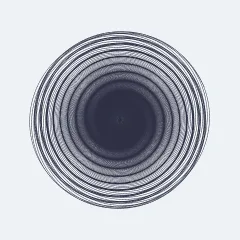
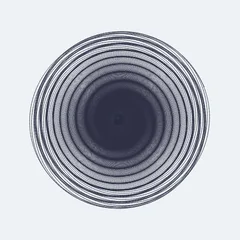
feat: sluttpøl — resten av malingen renner ut i en pytt der bøtta blir hengende
Når svingningen dør ut med maling igjen, blir bøtta i virkeligheten hengende
stille over ett punkt og tømmer resten rett ned. Nå dannes en deterministisk
sluttpøl per hull: calcEndPoolRadius (r ∝ √gjenværende volum, tynn maling
sprer seg bredere, tak 0.028) + drawEndPool (ugjennomsiktig lobet pytt,
coffee-ring-kant, våt glans) og ETT lagret isPool-punkt per hull, slik at
WYSIWYG-eksporten replayer pølen gratis. Ingen nye rng-kall i kjøreløkka —
alle tidligere punkter er urørt. Tom bøtte, MAX_POINTS eller manuell stopp
("løfte bøtta vekk") gir ingen pøl.

Rigg-overlegget (kun display) viser nå også strålen tynnere når flowen dør,
og stiplet når den sputrer (Plateau–Rayleigh).

QA: tsc + build grønne. Headless montasje (8 presets + Default) fortsatt
runde og lerretsfyllende; Kaotisk/Galakse/Regnbue (tom bøtte) byte-identiske
med HEAD; determinisme PASS (samme frø → identisk PNG, ulikt frø → ulik);
5 preset-miniatyrer regenerert (rosett/organisk/geometrisk/zen/blomst);
live-kjøring i preview fullført uten konsollfeil.

diff --git a/src/components/PaintCanvas.tsx b/src/components/PaintCanvas.tsx
@@ -7,8 +7,9 @@ import {
   calcPaintFlowRate, calcDropRadius, calcDropOpacity, calcBobHeight,
   calcCentripetalAccel, shouldSplash, calcPaintLevel, calcCanvasOffset,
   calcStreamBreakup, calcRopeCoiling, calcStreamAdvection,
+  calcEndPoolRadius, END_POOL_MIN_RADIUS,
 } from '@/lib/physics';
-import { drawThickStroke, drawSplashSplat, drawPaperTexture, getSymmetryTransforms, copySeed, mulberry32, Rng, SPLASH_GRAVITY, splashDrag } from '@/lib/painter';
+import { drawThickStroke, drawSplashSplat, drawEndPool, drawPaperTexture, getSymmetryTransforms, copySeed, mulberry32, Rng, SPLASH_GRAVITY, splashDrag } from '@/lib/painter';
 
 const PAINT_SIZE = 3072;
 const STEPS_PER_FRAME = 14;
@@ -327,8 +328,49 @@ export default function PaintCanvas({
         particles.current = [];
         paintCtx.globalCompositeOperation = 'source-over';
       };
-      const finishRun = () => {
+      // Terminal drain pool: when the swing has died away with paint left, the
+      // bucket hangs still and drains the rest straight down into a puddle at
+      // the rest point (per hole). rng-FREE in the run loop — only the plain
+      // nextSeed() counter after the last stroke — so every earlier point is
+      // untouched; ONE stored isPool-point per hole replays it in the export.
+      // Called ONLY when the run ends by settling: an empty bucket has nothing
+      // left to drain, and stopping by hand = lifting the bucket away.
+      const depositEndPool = (t: number) => {
+        const paintLevel = calcPaintLevel(totalFlow.current, ps.holes.length, ps.bucketCapacity);
+        const poolR = calcEndPoolRadius(paintLevel, ps.bucketCapacity, ps.holes.length, ps.viscosity);
+        if (poolR < END_POOL_MIN_RADIUS) return;
+        const pos = calcPosition(t, prepared);
+        const co = calcCanvasOffset(t, s.canvasMotion);
+        const cx = 0.5 + pos.x * SCALE + co.ox;
+        const cy = 0.5 + pos.y * SCALE + co.oy;
+        paintCtx.globalCompositeOperation = wet ? 'multiply' : 'source-over';
+        for (let h = 0; h < ps.holes.length; h++) {
+          const hole = ps.holes[h];
+          const nx = cx + hole.offsetX;
+          const ny = cy + hole.offsetY;
+          const seed = nextSeed();
+          const copies = getSymmetryTransforms(nx * PAINT_SIZE, ny * PAINT_SIZE, PAINT_SIZE, sym);
+          for (let i = 0; i < copies.length; i++) {
+            drawEndPool(paintCtx, copies[i].x, copies[i].y, poolR * PAINT_SIZE, hole.color, ps.opacity, ps.viscosity, copySeed(seed, i), shadowOn);
+          }
+          pointsRef.current.push({
+            x: nx, y: ny,
+            radius: poolR, color: hole.color, opacity: ps.opacity,
+            viscosity: ps.viscosity,
+            seed,
+            isPool: true,
+            blend: wet || undefined,
+            shadow: shadowOn || undefined,
+            sym,
+          });
+        }
+        paintCtx.globalCompositeOperation = 'source-over';
+      };
+      // The pool drains AFTER the last airborne droplets have landed, so it is
+      // deposited (and stored) last — live draw order matches the export replay.
+      const finishRun = (endPoolT?: number) => {
         landRemainingParticles();
+        if (endPoolT !== undefined) depositEndPool(endPoolT);
         cbRef.current('done');
       };
 
@@ -339,7 +381,7 @@ export default function PaintCanvas({
 
       for (let step = 0; step < STEPS_PER_FRAME; step++) {
         const t = tRef.current;
-        if (isSimulationDone(t, prepared)) { finishRun(); return; }
+        if (isSimulationDone(t, prepared)) { finishRun(t); return; }
 
         const pos = calcPosition(t, prepared);
         const vel = calcVelocity(t, prepared);
@@ -571,7 +613,14 @@ export default function PaintCanvas({
               const adv = calcStreamAdvection(vel.vx, vel.vy, h, sRef.current.pendulum.stringLength, flow);
               const lx = (0.5 + (pos.x + adv.dx) * SCALE + co.ox) * display.width;
               const ly = (0.5 + (pos.y + adv.dy) * SCALE + co.oy) * display.height;
-              const streamW = Math.max(bobR * 0.18, 1.5);
+              // Stream thins as the Torricelli flow dies with the paint level,
+              // and breaks into dashes when the starving jet sputters into
+              // drops (Plateau–Rayleigh) — the overlay mirrors what the paint
+              // on the canvas is doing. Display-only.
+              const normFlow = Math.min(flow / 5, 1);
+              const starve = calcStreamBreakup(normFlow, ps.viscosity);
+              const streamW = Math.max(bobR * 0.22 * (0.35 + normFlow * 0.65), 1.2);
+              if (starve > 0) ctx.setLineDash([streamW * 2.2, streamW * (1.2 + starve * 3)]);
               ctx.lineCap = 'round';
               ctx.strokeStyle = bobColor;
               ctx.globalAlpha = 0.28;
@@ -586,6 +635,7 @@ export default function PaintCanvas({
               ctx.moveTo(ix, iy);
               ctx.lineTo(lx, ly);
               ctx.stroke();
+              ctx.setLineDash([]);
               // Impact point where the paint meets the canvas.
               ctx.globalAlpha = 0.5;
               ctx.fillStyle = bobColor;

diff --git a/src/lib/painter.ts b/src/lib/painter.ts
@@ -718,6 +718,75 @@ export function drawSplashSplat(
   ctx.restore();
 }
 
+// ═══════════════════════════════════════════════════════════
+// TERMINAL DRAIN POOL
+// When the swing dies with paint left, the bucket hangs still
+// and drains the rest straight down into a puddle. Drawn once
+// per hole at run end; ONE stored PaintPoint (isPool) replays
+// it in the export. Fully deterministic via the point's seed;
+// everything scales with r, so live/export match at any size.
+// ═══════════════════════════════════════════════════════════
+
+export function drawEndPool(
+  ctx: CanvasRenderingContext2D,
+  x: number, y: number,
+  r: number,
+  color: string,
+  opacity: number,
+  viscosity: number,
+  seed: number,
+  shadow: boolean = false,
+) {
+  if (r <= 0.5) return;
+  const rng = mulberry32(seed);
+  ctx.save();
+
+  // Relief shadow first (rng-FREE, like drawStrokeShadow): a pool is flat,
+  // so the offset is half a stroke's.
+  if (shadow) {
+    ctx.globalAlpha = Math.min(opacity, 1) * SHADOW_ALPHA;
+    ctx.fillStyle = '#000000';
+    ctx.beginPath();
+    ctx.arc(x + r * SHADOW_OFFSET * 0.5, y + r * SHADOW_OFFSET * 0.5, r * 0.98, 0, Math.PI * 2);
+    ctx.fill();
+  }
+
+  // Opaque body: main disc + seeded edge lobes → a natural, slightly
+  // irregular puddle outline. Watery paint spreads into wider lobes.
+  ctx.globalAlpha = Math.min(opacity * 0.96, 1);
+  ctx.fillStyle = varyColor(color, 0.012, rng);
+  ctx.beginPath();
+  ctx.arc(x, y, r * 0.94, 0, Math.PI * 2);
+  ctx.fill();
+  const lobes = 8 + Math.floor(rng() * 5);
+  for (let i = 0; i < lobes; i++) {
+    const a = rng() * Math.PI * 2;
+    const lr = r * (0.14 + rng() * 0.2) * (0.75 + (1 - viscosity) * 0.5);
+    const d = r * 0.94 - lr * (0.15 + rng() * 0.35);
+    ctx.beginPath();
+    ctx.arc(x + Math.cos(a) * d, y + Math.sin(a) * d, lr, 0, Math.PI * 2);
+    ctx.fill();
+  }
+
+  // Coffee-ring rim: the drying puddle deposits pigment along its edge —
+  // strongest for watery paint (same physics as the splash splats).
+  ctx.globalAlpha = Math.min(opacity, 1) * (0.15 - viscosity * 0.05);
+  ctx.strokeStyle = darken(color, 0.3);
+  ctx.lineWidth = Math.max(r * 0.06, 0.5);
+  ctx.beginPath();
+  ctx.arc(x, y, r * 0.96, 0, Math.PI * 2);
+  ctx.stroke();
+
+  // Wet sheen: soft highlight up-left — fresh paint reflects the light.
+  ctx.globalAlpha = Math.min(opacity, 1) * 0.09 * (1 - viscosity * 0.35);
+  ctx.fillStyle = lighten(color, 0.6);
+  ctx.beginPath();
+  ctx.ellipse(x - r * 0.28, y - r * 0.3, r * 0.36, r * 0.22, -0.7, 0, Math.PI * 2);
+  ctx.fill();
+
+  ctx.restore();
+}
+
 /** Replay one droplet's deterministic flight (drawing nothing in the air) and
  *  draw the landing splat — EXACTLY the same integration as the live loop. */
 export function drawSplashTrail(
@@ -816,6 +885,16 @@ function renderOnePoint(
 
   // Wet-on-wet points composite with multiply, like real pigment layering.
   ctx.globalCompositeOperation = p.blend ? 'multiply' : 'source-over';
+
+  if (p.isPool) {
+    // Terminal drain pool — one point per hole, drawn at run end.
+    const copies = getSymmetryTransforms(x2, y2, canvasSize, sym);
+    for (let i = 0; i < copies.length; i++) {
+      drawEndPool(ctx, copies[i].x, copies[i].y, r, p.color, p.opacity, visc, copySeed(baseSeed, i), p.shadow === true);
+    }
+    ctx.globalCompositeOperation = 'source-over';
+    return;
+  }
 
   if (p.isSplash) {
     if (p.decay != null) {

diff --git a/src/lib/physics.ts b/src/lib/physics.ts
@@ -298,6 +298,33 @@ export function calcStreamAdvection(
   return { dx: vx * tFall, dy: vy * tFall };
 }
 
+// ── Terminal drain pool ──
+// When the swing has died below the stop threshold the bucket hangs (almost)
+// still over one spot. If paint remains, it doesn't vanish — it keeps draining
+// straight down and spreads into a puddle at the rest point, exactly like the
+// dense center pool of a real pendulum piece left to finish on its own.
+// (Runs that end because the bucket is EMPTY, or that the artist stops by hand
+// — the "lift the bucket away" move — get no pool.)
+
+/** Pools smaller than this (normalized units ≈ 6px live) are skipped entirely,
+ *  so the threshold is resolution-independent — never a fixed pixel floor. */
+export const END_POOL_MIN_RADIUS = 0.002;
+
+/** Radius of the terminal drain pool (normalized canvas units). The remaining
+ *  volume drains into a disc, so area ∝ volume → r ∝ √V; watery paint spreads
+ *  wider, thick paint mounds up. Capped — a real canvas only absorbs so much. */
+export function calcEndPoolRadius(
+  paintLevel: number,
+  bucketCapacity: number,
+  holeCount: number,
+  viscosity: number,
+): number {
+  if (paintLevel <= 0.01) return 0;
+  const vol = (paintLevel * bucketCapacity) / Math.max(holeCount, 1);
+  const spread = 0.8 + (1 - viscosity) * 0.7;
+  return Math.min(0.0035 * Math.sqrt(vol) * spread, 0.028);
+}
+
 export function calcCentripetalAccel(vx: number, vy: number, prevVx: number, prevVy: number, dt: number): number {
   const ax = (vx - prevVx) / dt;
   const ay = (vy - prevVy) / dt;

diff --git a/src/lib/types.ts b/src/lib/types.ts
@@ -119,6 +119,9 @@ export interface PaintPoint {
    *  are the droplet's INITIAL state and the renderer replays the whole deterministic
    *  trajectory — one stored point per droplet instead of one per animation step. */
   decay?: number;
+  /** Terminal drain pool: the puddle the remaining paint forms where the bucket ends
+   *  up hanging after the swing dies. Rendered with drawEndPool (radius = pool size). */
+  isPool?: boolean;
   /** Symmetry active when this point was painted. Layers can be painted with different
    *  symmetry, so the export replays each point with ITS OWN symmetry — not the current
    *  global setting. Absent on older points → fall back to the setting passed in.

diff --git a/CLAUDE.md b/CLAUDE.md
@@ -51,7 +51,8 @@ requires the initial perpendicular velocity to be on the order of `ω·r` (a fac
 - The dense center that appears late in a run is the pendulum settling (physically real); control
   its size with damping (ends the run sooner). bucketCapacity DOES bind for the heavier presets
   (measured 2026-07: Kaotisk/Galakse/Regnbue end by empty bucket; Rosett bottoms out at
-  paintLevel 0.076) — Torricelli flow slows the drain but does not stop it.
+  paintLevel 0.076) — Torricelli flow slows the drain but does not stop it. If the swing dies
+  with paint LEFT, the remainder drains into a terminal pool at the rest point (see §6 sluttpøl).
 - **Plateau–Rayleigh sputter (2026-07):** a starving stream (bucket almost empty) breaks into
   drops instead of stopping dead. `calcStreamBreakup(normFlow, viscosity)` in `physics.ts` returns
   starvation 0–1 (onset `0.14 + (1−viscosity)·0.08`; viscous paint holds a thread longer); the
@@ -236,6 +237,26 @@ dot, plus airborne splash droplets as tiny flecks with a soft shadow beneath. Ma
 lag legible live: you SEE the paint land ahead of the bucket. Hidden with `showRig` off; drawn
 only while paint remains (`paintLevel > 0`). Zero WYSIWYG/determinism impact (display canvas
 only; it IS captured in video recordings like the rest of the rig — intentional).
+· terminal sluttpøl (2026-07): a run that ends by SETTLING (isSimulationDone) with paint left now
+drains the rest into a puddle at the rest point — the bucket hangs still and empties straight
+down, like a real piece left to finish on its own. `calcEndPoolRadius(paintLevel, capacity,
+holeCount, viscosity)` in `physics.ts` (r ∝ √remaining volume; watery paint spreads wider; cap
+0.028; `END_POOL_MIN_RADIUS = 0.002` normalized — resolution-independent, never a pixel floor);
+`drawEndPool` in `painter.ts` (deterministic via point seed: opaque lobed body, coffee-ring rim,
+wet sheen; relief shadow rng-FREE). ONE stored `isPool`-point per hole, deposited AFTER
+`landRemainingParticles` (the pool drains last → stored last → live draw order matches the export
+replay). rng-FREE in the run loop — only the plain `nextSeed()` counter after the last stroke —
+so every earlier point/pixel is untouched. Runs that end by EMPTY bucket, MAX_POINTS, or the user
+stopping by hand ("lifting the bucket away") get NO pool. QA 2026-07: Kaotisk/Galakse/Regnbue
+(end by empty bucket) byte-identical to pre-feature; the six settle-enders (Default 0.874 paint
+left, Rosett 0.076, Organisk 0.174, Geometrisk 0.408, Zen 0.898, Blomst 0.480) gained a modest
+center pool (+1 point per hole) and the 5 picker thumbnails were regenerated; determinism PASS.
+**The headless QA sim must mirror this:** emit pool points only on settle-end, after the loop,
+with the nextSeed counter continuing.
+· rigg-strålen speiler flowen (2026-07, display-only): the stream streak in the rig overlay now
+thins with the Torricelli flow (`normFlow`) and is drawn DASHED while `calcStreamBreakup` says
+the starving jet sputters — the overlay shows what the paint on the canvas is doing. Zero
+WYSIWYG/determinism impact.
 
 Remaining:
 1. **i18n** (English toggle) to widen reach.
